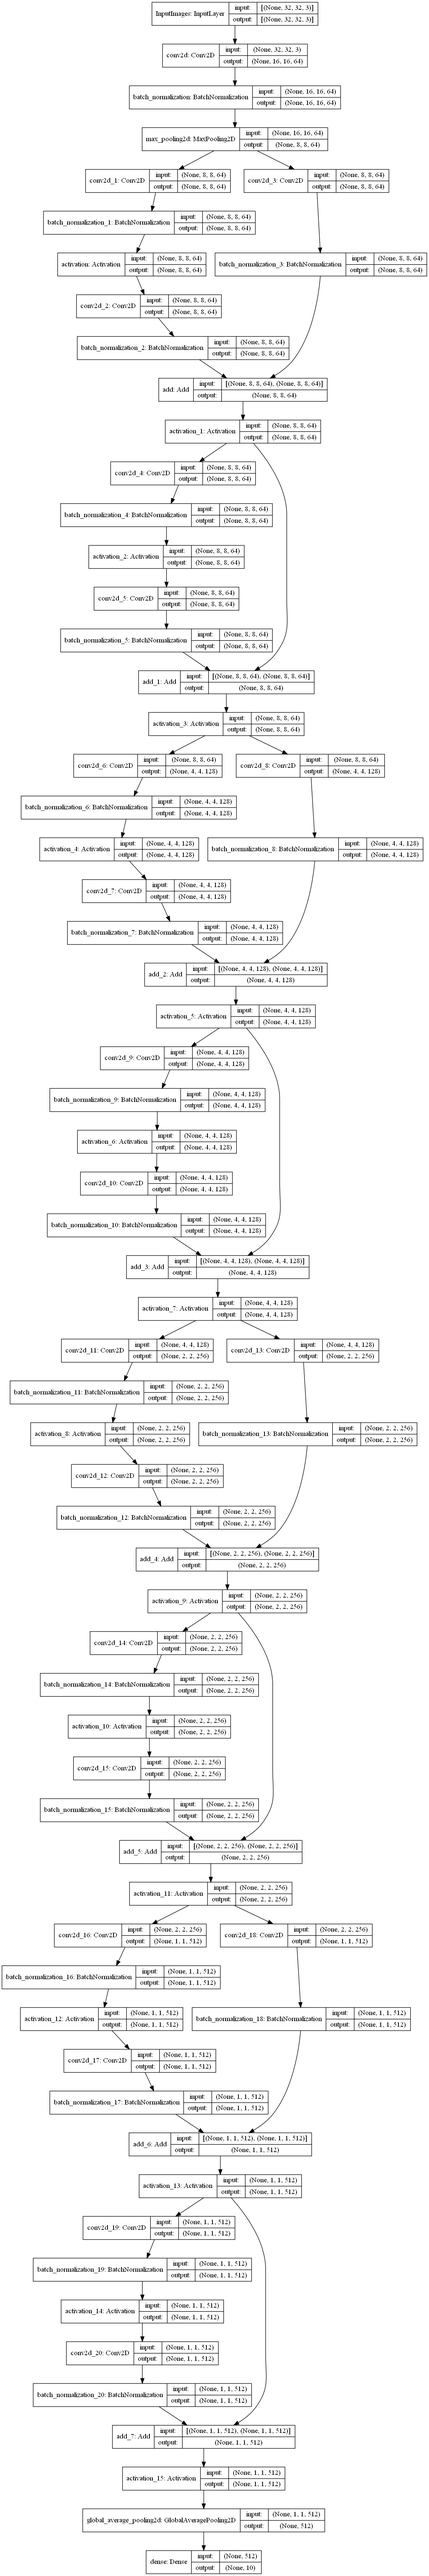
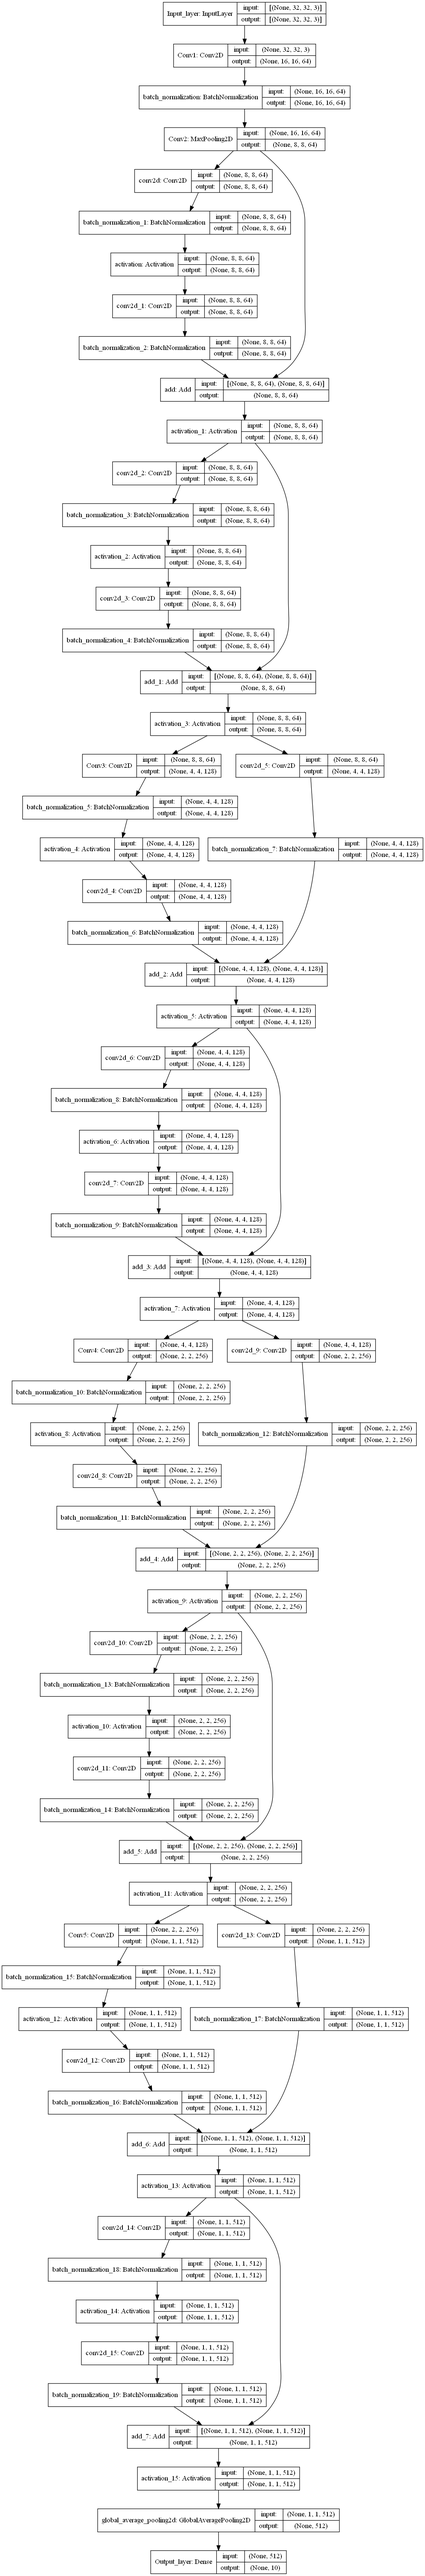
add named addition on layers and pass resnet18 to learning cifar10

diff --git a/Implement_google_AdaptiveFL/mymodel/resnet18.py b/Implement_google_AdaptiveFL/mymodel/resnet18.py
@@ -5,7 +5,7 @@ from tensorflow.keras.layers import (
 from tensorflow.keras import Input, Model, layers, models, Sequential 
 
 def Conv2D_with_BN(input_tensor, FilterNum, FeatureMapSize, 
-                   PaddingMode, StrideLength):
+                   PaddingMode, StrideLength, name=None):
     '''#### The basic convolution layer:
     [arXiv:1512.03385, P4]
     We adopt batch normalization(BN)
@@ -14,20 +14,21 @@ def Conv2D_with_BN(input_tensor, FilterNum, FeatureMapSize,
     x = Conv2D(filters=FilterNum,
                      kernel_size=FeatureMapSize,
                      padding=PaddingMode,
-                     strides=StrideLength)(input_tensor)
+                     strides=StrideLength,
+                     name=name)(input_tensor)
     x = BatchNormalization()(x)
     return x
 
-def ResidualBlock(input_tensor, FilterNum, StrideLength, shortcut_bool=False):
+def ResidualBlock(input_tensor, FilterNum, StrideLength, 
+                  shortcut_shape_transform = False, name=None):
     '''Fully obedience to the paper for restoration'''
     x = Conv2D_with_BN(input_tensor, FilterNum, FeatureMapSize=(3,3),
-                       PaddingMode='same', StrideLength=StrideLength)
+                       PaddingMode='same', StrideLength=StrideLength, name=name)
     x = Activation('relu')(x)
     x = Conv2D_with_BN(x, FilterNum, FeatureMapSize=(3,3), 
                        PaddingMode='same', StrideLength=1)
 
-    # [!!!] shortcut kernel size? x -> Stride!=1
-    if shortcut_bool:
+    if shortcut_shape_transform:
         identity = Conv2D_with_BN(input_tensor, FilterNum, FeatureMapSize=(1,1), 
                                   PaddingMode='same', StrideLength=StrideLength)
         x = add([x,identity])
@@ -40,23 +41,23 @@ def ResidualBlock(input_tensor, FilterNum, StrideLength, shortcut_bool=False):
 def ResNet18(input_shape, ClassNum):
   '''Keras functional api version'''
   # Step 1. Create a input node
-  inputs = Input(shape=input_shape, name="InputImages")
+  inputs = Input(shape=input_shape, name="Input_layer")
   
   # Steop 2. Add more layers
   # Conv1
-  x = Conv2D_with_BN(inputs,64,(7,7),'same',2)
+  x = Conv2D_with_BN(inputs,64,(7,7),'same',2,name="Conv1")
   # Conv2
-  x = MaxPooling2D(pool_size=(3,3), strides=2, padding='same')(x)
-  x = ResidualBlock(x,64,1,True) #True?
+  x = MaxPooling2D(pool_size=(3,3), strides=2, padding='same',name="Conv2")(x)
+  x = ResidualBlock(x,64,1) #True?
   x = ResidualBlock(x,64,1)
   # Conv3
-  x = ResidualBlock(x,128,2,True)
+  x = ResidualBlock(x,128,2,True,name="Conv3")
   x = ResidualBlock(x,128,1)
   # Conv4
-  x = ResidualBlock(x,256,2,True)
+  x = ResidualBlock(x,256,2,True,name="Conv4")
   x = ResidualBlock(x,256,1)
   # Conv5
-  x = ResidualBlock(x,512,2,True)
+  x = ResidualBlock(x,512,2,True,name="Conv5")
   x = ResidualBlock(x,512,1)
   # Average Pool 1x1
   x = layers.GlobalAveragePooling2D()(x)
@@ -64,7 +65,7 @@ def ResNet18(input_shape, ClassNum):
   #x = layers.Dropout(0.5)(x) # toy
 
   # Step 3. Create a output node
-  outputs = layers.Dense(ClassNum)(x) #activation="softmax"
+  outputs = layers.Dense(ClassNum, name="Output_layer")(x) #activation="softmax"
 
   # Step 4. Create a  Model to specifying its 
   # inputs and outputs in the graph of layers.

diff --git a/Implement_google_AdaptiveFL/test2.py b/Implement_google_AdaptiveFL/test2.py
@@ -4,3 +4,24 @@ from mymodel.resnet18 import ResNet18
 model = ResNet18((32,32,3),10)
 #model.summary()
 tf.keras.utils.plot_model(model, "resnet18_with_shape.png", show_shapes=True)
+
+optimizer = tf.keras.optimizers.SGD(momentum=0.9)
+model.compile(optimizer, 
+              tf.keras.losses.SparseCategoricalCrossentropy(from_logits=True), 
+              metrics=["accuracy", 'top_k_categorical_accuracy'])
+
+# Load data and model here to avoid the overhead of doing it in `evaluate` itself
+(x_train,y_train) ,(x_test,y_test) = tf.keras.datasets.cifar10.load_data() 
+
+# Data preprocessing
+x_train, x_test = x_train / 255.0, x_test / 255.0
+y_train = tf.squeeze(y_train,axis=1)
+y_test = tf.squeeze(y_test,axis=1)
+
+history = model.fit(
+            x = x_train,
+            y = y_train,
+            epochs = 20,
+            batch_size = 128,
+            validation_data=(x_test, y_test)
+        ) #validation_split=0.1
